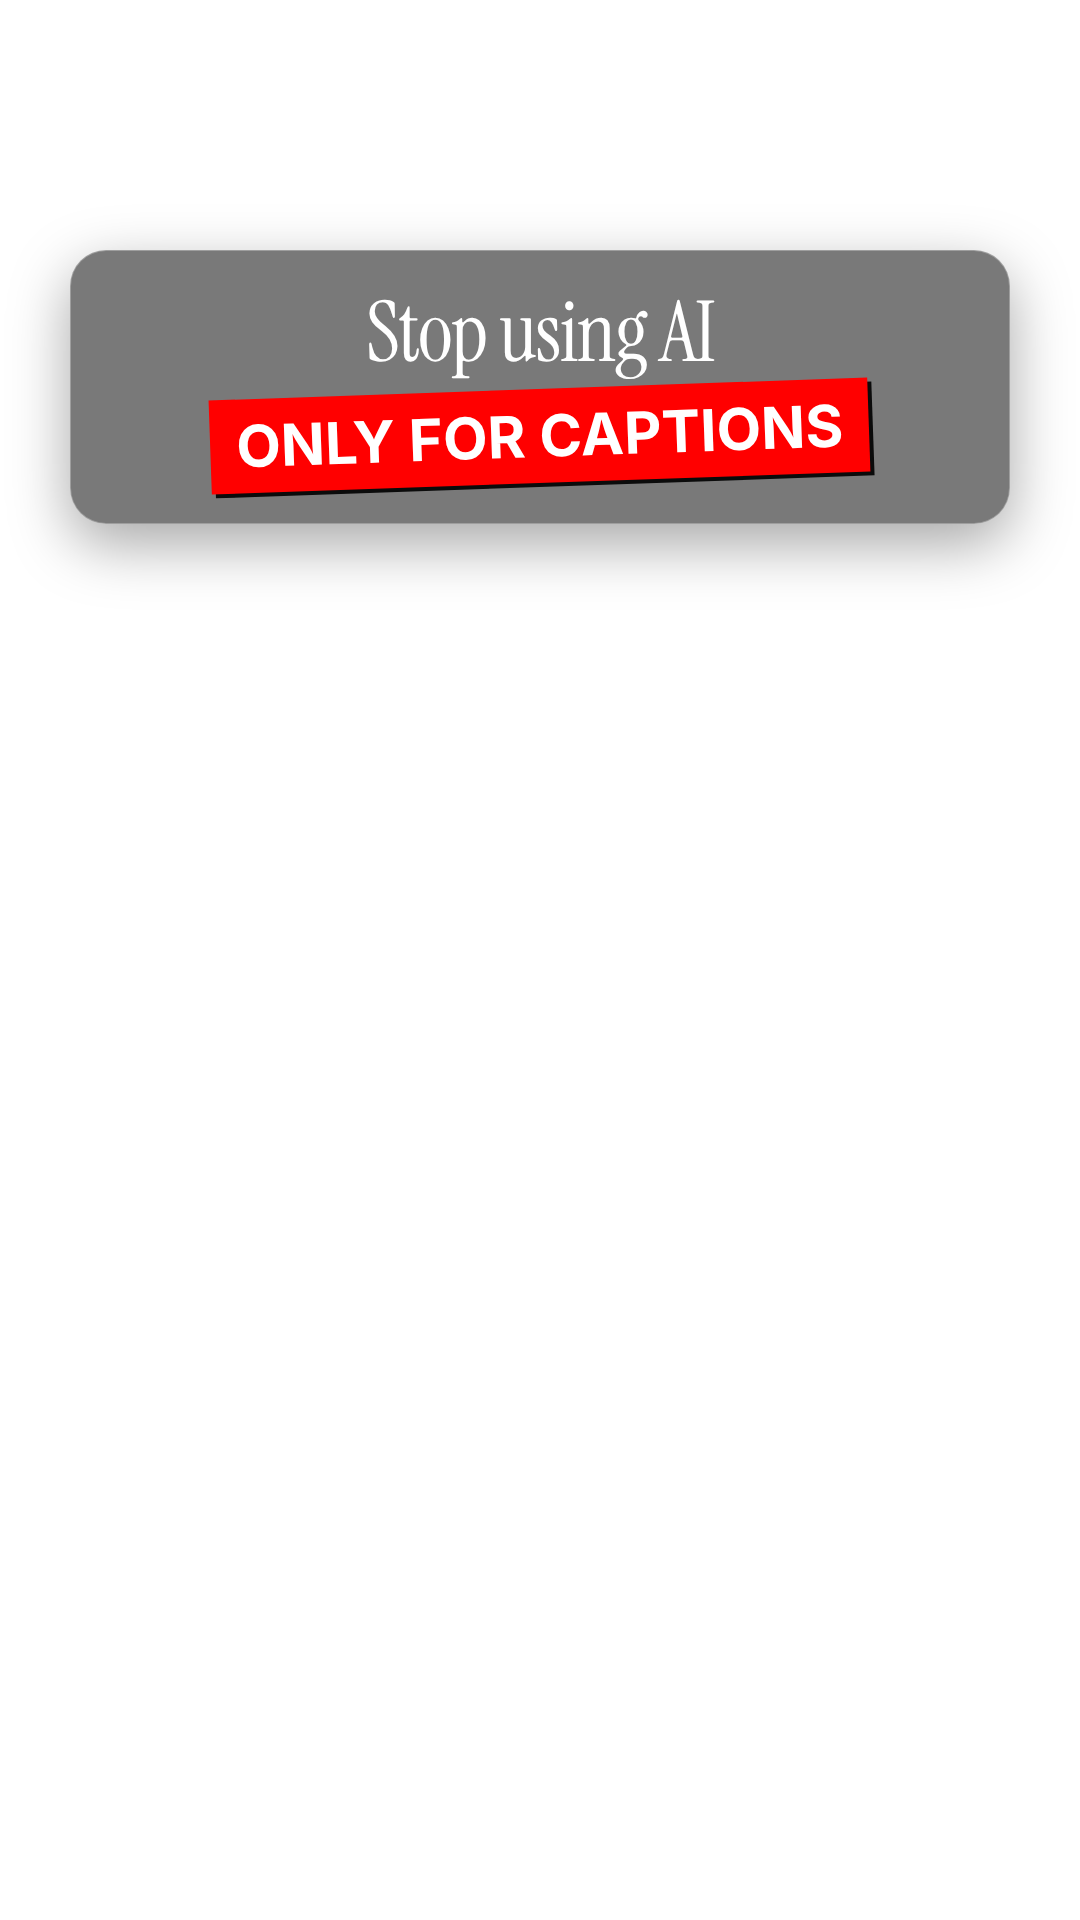
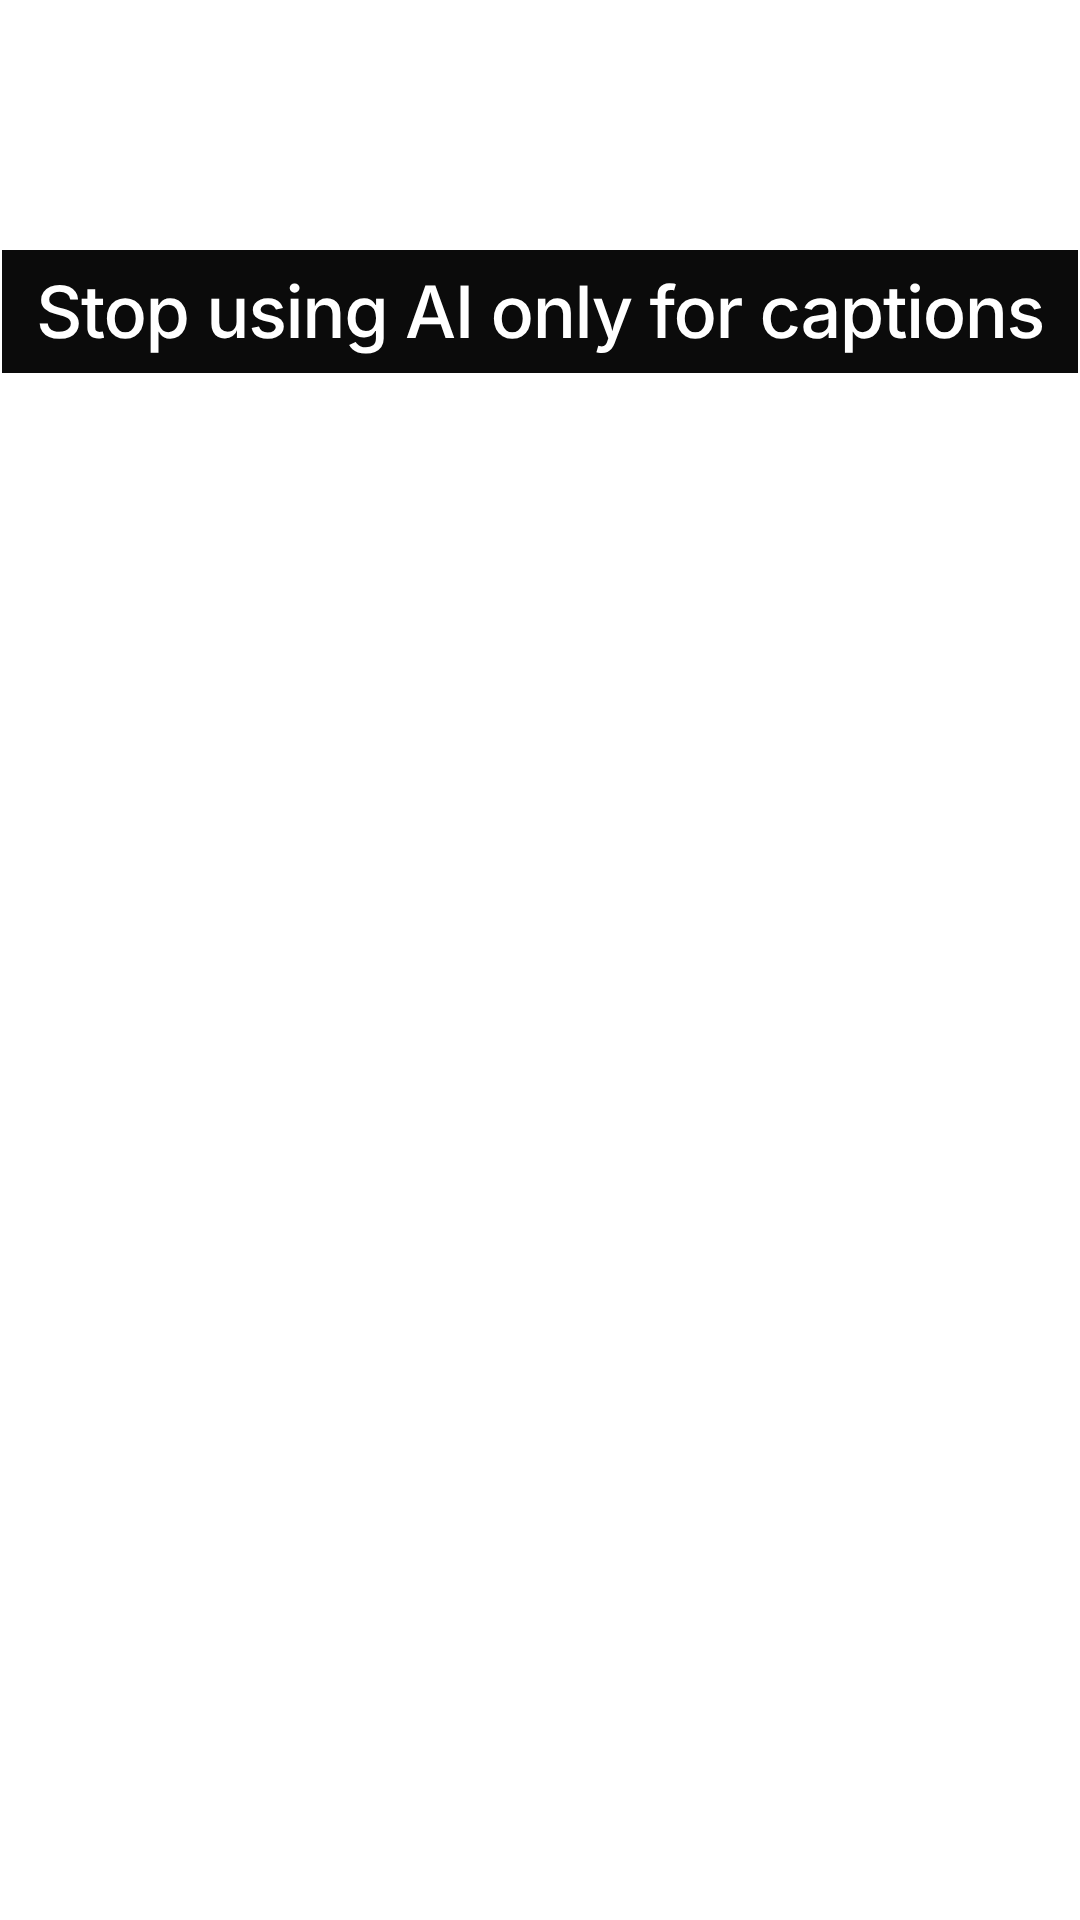
Reel R01 rebuilt in reference Style A; save reel style rule
Claude-Session: https://claude.ai/code/session_01EwSRgi461yGSE7PSpZwDes

Changed region(s): [[0.0, 0.125, 1.0, 0.3125]]

diff --git a/editor (karan personal)/projects/reels/R01_5-tasks-to-AI/cutaways_generator_styleA.py b/editor (karan personal)/projects/reels/R01_5-tasks-to-AI/cutaways_generator_styleA.py
@@ -1,0 +1,52 @@
+import sys, os
+OUT=sys.argv[1]; sys.argv=[sys.argv[0], "/tmp/ph1080.jpg"]
+exec(open("/tmp/kwscripts/carousel_v3.py").read())
+BLK="#0B0B0B"; RED="#FF0000"; KW="TOOLS"
+def page(body,transparent=False):
+    bg="transparent" if transparent else "#FBFBFB"
+    return f"<!DOCTYPE html><html><head><meta charset='utf-8'>{FONTS}<style>*{{box-sizing:border-box;margin:0}}html,body{{width:1080px;height:1920px;overflow:hidden;background:{bg};font-family:Inter,sans-serif;color:{BLK}}}"+\
+      ".grid{position:absolute;inset:0;background-image:radial-gradient(#dcdcdc 1.6px,transparent 1.7px);background-size:44px 44px}"+\
+      ".card{background:#fff;border:1.5px solid #E6E6E6;border-radius:36px;box-shadow:0 24px 60px rgba(0,0,0,.08)}"+\
+      ".serif{font-family:'Instrument Serif',serif;letter-spacing:-.02em}</style></head><body>"+body+"</body></html>"
+files={}
+# hook overlay: black title box, white sentence-case text (ref 01 style)
+files["00_hook_title_OVERLAY"]=("<div style='position:absolute;left:0;right:0;top:250px;display:flex;justify-content:center'><div style='background:#0B0B0B;color:#fff;font:500 72px/1.1 Inter;padding:22px 34px;letter-spacing:-.02em'>Stop using AI only for captions</div></div>",True)
+tasks=[("openai","ChatGPT","Caption first drafts","Write 10 hooks for a café in Jammu. Max 12 words each.","10 hooks ready. Pick one, then edit it in your words."),
+("claude","Claude","Summarise long docs","Summarise this brief: decisions, open questions, next steps.","Table ready: 3 decisions · 2 open questions · 4 next steps."),
+("googlegemini","Gemini","Research a topic fast","Give me an overview of this topic with sources and dates.","Overview with 5 sources. Check each one before you use it."),
+("canva","Canva","Resize one design","Post 4:5  →  Story 9:16  →  Reel cover","One design, every format."),
+(None,"Any AI chat","Draft DM replies","Here are my 10 most asked DM questions. Draft short replies.","10 replies saved as quick replies.")]
+for i,(lg,tool,title,q,a) in enumerate(tasks,1):
+    logo_html = ltile(lg,120) if lg else f"<div style='width:120px;height:120px;border-radius:29px;background:#fff;border:3px solid {BLK};display:grid;place-items:center'>{ic('message-square-reply',BLK,64,2)}</div>"
+    if lg=="canva":
+        mock=f"""<div style='display:flex;align-items:flex-end;justify-content:center;gap:40px;padding:50px 30px'>
+<div style='width:230px;height:288px;border:3px solid {BLK};border-radius:16px;display:grid;place-items:center;font:600 30px Inter'>4:5</div>
+<svg width='70' height='40' viewBox='0 0 70 40' fill='none' stroke='{BLK}' stroke-width='3'><path d='M2 20h62M50 6l14 14-14 14'/></svg>
+<div style='width:200px;height:356px;border:3px solid {RED};border-radius:16px;display:grid;place-items:center;font:600 30px Inter;color:{RED}'>9:16</div></div>
+<div style='text-align:center;font:500 34px Inter;color:#6B6B6B;padding-bottom:40px'>{a}</div>"""
+    else:
+        mock=f"""<div style='padding:40px'><div style='display:flex;justify-content:flex-end'><div style='background:#F4F4F4;border-radius:28px 28px 6px 28px;padding:24px 30px;font:500 34px/1.35 Inter;max-width:720px'>{q}</div></div>
+<div style='display:flex;gap:18px;margin-top:30px;align-items:flex-start'>{ltile(lg,64) if lg else ''}<div style='border:2.5px solid {RED};border-radius:6px 28px 28px 28px;padding:22px 28px;font:500 34px/1.35 Inter;max-width:700px'>{a}</div></div>
+<div style='margin-top:36px;border:1.5px solid #E6E6E6;border-radius:999px;padding:22px 30px;font:400 30px Inter;color:#9a9a9a'>Message {tool}…</div></div>"""
+    files[f"0{i}_task{i}_{tool.split()[0].lower()}"]=(f"""<div class='grid'></div><div style='position:absolute;left:80px;right:80px;top:460px'>
+<div style='font:600 30px Inter;letter-spacing:.16em;color:#6B6B6B'>TASK {i} OF 5</div>
+<div style='display:flex;align-items:center;gap:28px;margin-top:30px'>{logo_html}<div><div style='font:700 40px Inter'>{tool}</div><div class='serif' style='font-size:84px;line-height:1'>{title}</div></div></div>
+<div class='card' style='margin-top:60px'>{mock}</div></div>""",False)
+# rule card: thin-line diagram (ref style)
+node=lambda t,red=False: f"<div style='border:{'3px solid '+RED if red else '2px solid '+BLK};border-radius:24px;padding:26px 30px;font:600 38px Inter;background:#fff;{('color:'+RED) if red else ''}'>{t}</div>"
+line="<div style='width:2px;height:70px;background:#0B0B0B;margin:0 auto'></div>"
+files["06_rule_diagram"]=(f"""<div class='grid'></div><div style='position:absolute;left:80px;right:80px;top:420px;text-align:center'>
+<div style='font:600 30px Inter;letter-spacing:.16em;color:#6B6B6B'>ONE RULE</div>
+<div class='serif' style='font-size:96px;line-height:1.02;margin-top:24px'>AI writes the first draft.<br>You make it yours.</div>
+<div style='display:flex;flex-direction:column;align-items:center;margin-top:70px'>{node('AI first draft')}{line}{node('+ your real example')}{line}{node('+ your voice')}{line}{node('Post',True)}</div></div>""",False)
+# CTA pill overlay on talking head (ref 01-03: small Comment label above white rounded pill, black circle arrow)
+up=f"<svg viewBox='0 0 24 24' width='30' height='30' fill='none' stroke='#fff' stroke-width='3' stroke-linecap='round' stroke-linejoin='round'><path d='M12 19V5M5 12l7-7 7 7'/></svg>"
+files["07_cta_pill_OVERLAY"]=(f"""<div style='position:absolute;left:0;right:0;top:1250px;display:flex;flex-direction:column;align-items:center;gap:12px'>
+<div style='font:500 38px Inter;color:#fff;text-shadow:0 2px 10px rgba(0,0,0,.4)'>Comment</div>
+<div style='display:flex;align-items:center;gap:40px;background:#fff;border-radius:999px;padding:16px 18px 16px 56px;box-shadow:0 10px 30px rgba(0,0,0,.25)'><span style='font:600 54px Inter'>“{KW}”</span><span style='width:76px;height:76px;border-radius:50%;background:#0B0B0B;display:grid;place-items:center'>{up}</span></div>
+<div style='font:500 32px Inter;color:#fff;text-shadow:0 2px 10px rgba(0,0,0,.4)'>All 5 prompts in your DMs</div></div>""",True)
+# caption style sample (thin white, 1-3 words, ref A)
+files["08_caption_style_SAMPLE_OVERLAY"]=("<div style='position:absolute;left:0;right:0;top:700px;text-align:center;font:300 110px Inter;color:#fff;letter-spacing:-.02em;text-shadow:0 3px 18px rgba(0,0,0,.35)'>hand it <span style='font-weight:800'>to AI</span></div>",True)
+os.makedirs(OUT,exist_ok=True)
+for n,(b,t) in files.items(): open(f"{OUT}/{n}.html","w").write(page(b,t))
+print(len(files))

diff --git a/editor (karan personal)/projects/reels/R01_5-tasks-to-AI/REEL_SCRIPT_AND_EDIT_PLAN.md b/editor (karan personal)/projects/reels/R01_5-tasks-to-AI/REEL_SCRIPT_AND_EDIT_PLAN.md
@@ -1,6 +1,6 @@
 # Reel R01: "5 tasks to hand to AI" · ~45 s · 9:16 · English
 Keyword: **TOOLS** → DM: prompt pack (PDF 01, already public)
-Format: your reference reel pattern. Hook in the first 2 s, a visual change every 3–5 s, 1–3 word captions, cutaways about 40% of runtime, comment-pill end card, −14 LUFS. Looks: your brand (black/white/red, glass cards, official tool logos).
+Format: your reference reels, **Style A (Clean Tech Minimal)**. Black title box for the hook, thin white 1–3 word captions, white app-screen cutaways with thin-line diagrams, white rounded "Comment" pill (black arrow) over you at the end. A visual change every 3–5 s, cutaways about 40% of runtime, −14 LUFS. Colours: black/white + red accent only; tool logos in official colours.
 
 ## 1. What you record (one take, talking head)
 - Phone at eye level, window light in front, plain wall, 1080×1920 at 30 fps, no beauty filter.
@@ -17,17 +17,17 @@ Format: your reference reel pattern. Hook in the first 2 s, a visual change ever
 | 16–21 s | "Three: research a topic fast with Gemini. But always check the sources." | Card | `03_task3_gemini.png` |
 | 21–26 s | "Four: design one post in Canva, then resize it for Story and Reel cover." | Card | `04_task4_canva.png` |
 | 26–31 s | "Five: list your 10 most asked DM questions and let AI draft quick replies." | Card | `05_task5_any.png` |
-| 31–37 s | "One rule: AI writes the first draft. You make it yours." | Rule card on "one rule" | `06_rule_card.png` (≈3 s) |
-| 37–45 s | "Want the exact prompt for each task? Comment TOOLS and I'll DM you all five." | End card | `07_cta_endcard.png` (last 4–5 s) |
+| 31–37 s | "One rule: AI writes the first draft. You make it yours." | Rule card on "one rule" | `06_rule_diagram.png` (≈3 s) |
+| 37–45 s | "Want the exact prompt for each task? Comment TOOLS and I'll DM you all five." | Stay on you, pill overlay | `07_cta_pill_OVERLAY.png` (last 4–5 s, transparent) |
 
 ## 3. Edit steps (CapCut or InShot)
 1. Import your clip. Cut out pauses and mistakes (jump cuts are fine, keep each shot 3–5 s).
 2. Put `00_hook_title_OVERLAY.png` on an overlay track for 0–3 s (it's transparent).
 3. Drop cards 01–07 as full-screen cutaways at the times above, keeping your voice underneath.
-4. Auto-captions: white text, 1–3 words, centre-lower, one key word in red per screen.
+4. Auto-captions (Style A): Inter Light, white, large (~110 px on 1080 wide), soft shadow, 1–3 words, placed mid-frame above your head line; one key word in Bold. See `08_caption_style_SAMPLE_OVERLAY.png`.
 5. Light zoom-in (105%) on every other A-roll cut. Soft whoosh SFX on each card, low volume.
 6. Audio: normalise to around −14 LUFS. No loud music; a quiet beat at −25 dB is enough.
-7. Cover: use `01_task1_chatgpt.png` or a frame of you with the hook overlay.
+7. Cover: a frame of you with the black hook box (`00_hook_title_OVERLAY.png`).
 8. Export 1080×1920, 30 fps, high bitrate.
 
 ## 4. Caption (Instagram)

diff --git a/editor (karan personal)/knowledge/VISUAL_STYLE_GUIDE.md b/editor (karan personal)/knowledge/VISUAL_STYLE_GUIDE.md
@@ -2,6 +2,9 @@
 
 Status: **Karan's personal brand = VERIFIED (Design System v2).** Reel editing pattern = from 4 reference reels. Slide decks = follow brand system until PPT refs arrive.
 
+## 0D. KARAN'S OWN REELS = REFERENCE STYLE A (Karan, 31 Oct 2026)
+Reels follow the reference reel format, Style A Clean Tech Minimal: black title box hook (white sentence-case text), thin white 1–3 word captions with one bold word, white/near-white app-screen cutaways (chat mock or real screenshot) with a red highlight outline, thin-line diagrams, white rounded "Comment" pill with black circle arrow overlaid on the talking head at the end, cut every 3–5 s, −14 LUFS. Colours: black/white + red accent only; tool logos in official colours. Unique keyword per reel. Generator: `projects/reels/R01_5-tasks-to-AI/cutaways_generator_styleA.py`.
+
 ## 0C. CAROUSEL ROTATION — Karan, 31 Oct 2026 (wins over 0B)
 Never post the same carousel look twice in a row. Rotate 3 variants in this fixed order, one per carousel upload (a carousel goes out every 3–4 days):
 1. **B+D: Glass + Sticker.** Glass base + tilted app-icon stickers, red marker circle/arrows, yellow highlighter tags. Stickers and marker on covers and flow slides; text-heavy slides stay plain glass. Sample: `projects/carousel-system-preview/carousel_direction_BD_glass-sticker.png`.

diff --git a/editor (karan personal)/changelog/STYLE_UPDATES.md b/editor (karan personal)/changelog/STYLE_UPDATES.md
@@ -14,3 +14,4 @@ Format: `YYYY-MM-DD — file changed — what changed — why/source`
 - 2026-10-31 — VISUAL_STYLE_GUIDE §0C — **Karan: use only my brand colours, no additional colours.** Glows, tags, arrows and tiles are now black/white/red/grey only; yellow highlighter and purple/green/blue glows removed. Logos stay in official colours (pending confirmation).
 - 2026-10-31 — CLAUDE.md, BRAND_PROFILE, CONTENT_EDITING_STYLE — **Karan: all content in English.** Replaces the Hinglish rule for slides, captions and LinkedIn. Comment "AI" CTA unchanged.
 - 2026-10-31 — CLAUDE.md — **Karan: every post's comment keyword must be different, not "AI" every time.** Pill style unchanged; one keyword per post, unique per month, one automation per keyword.
+- 2026-10-31 — VISUAL_STYLE_GUIDE §0D — **Karan: reels must follow the reference reel format.** Own reels = Style A (black hook box, thin white captions, white app-screen cutaways, thin-line diagrams, white Comment pill overlay), brand colours only. R01 rebuilt; glass version kept as cutaways_v1_glass.
